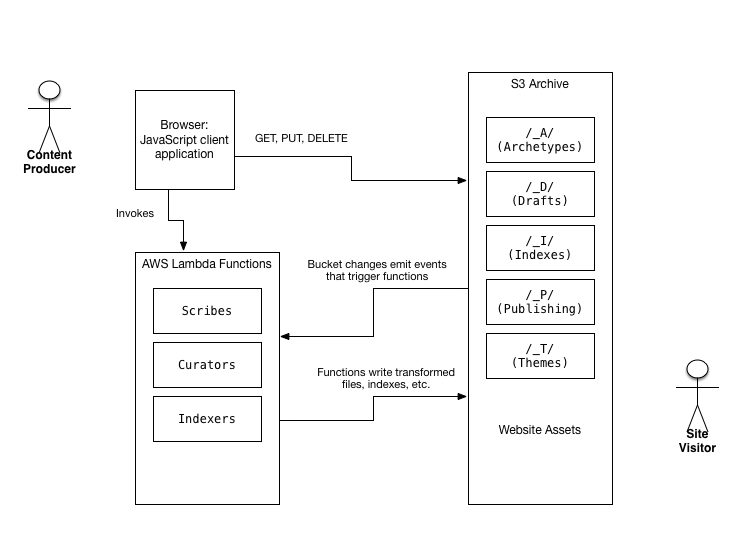
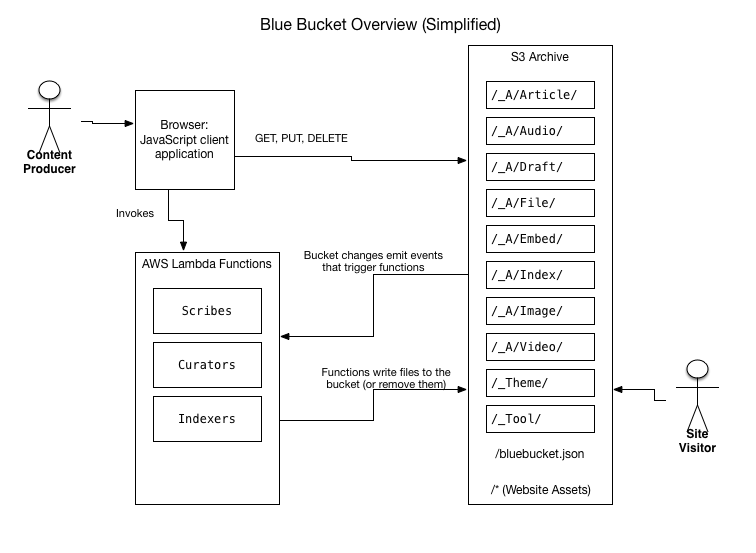
updated architecture/flows

diff --git a/content/architecture-process.md b/content/architecture-process.md
@@ -8,12 +8,11 @@ make the right choice.
 Here are some down-to-earth principles used in Blue Bucket's design:
 
 * Web standards are the instruction manual.
-* Cloud services are the magic sauce. Hardware and software are anti-patterns.
-  Minimize use of infrastructure and custom code.
+* Cloud services are the magic sauce. Dedicated hardware and custom software are
+  anti-patterns; minimize their use.
 * Small pieces, loosely joined, are better than big, complex tools. Each
   component of the system should have only one task, and should perform that
-  task very well.
-  Also known as the [Single Responsibility Principle][].
+  task very well. Also known as the [Single Responsibility Principle][].
 * The file system is the canonical repository. Every artifact of the site is
   stored in, or derived from, flat files. An end
   user should be able to reproduce the entire system given the repository.
@@ -45,76 +44,121 @@ S3 is the **archive**, the repository where all your materials are kept.
 Conveniently, S3 stores items in what it calls "buckets." We'll just paint ours
 blue!
 
-Files stored in our archive are either **sources** or **artifacts**. Sources get
-uploaded by external agents called **curators**. Artifacts get created by
-**scribes**, agents implemented as Lambda functions.
+Files stored in our archive are **assets**. Assets may be uploaded by external
+agents called **curators**. Assets uploaded by curators are called **sources**.
+Other assets may be created by our internal processes.  Internal processes that
+create assets are called **scribes**, and the assets they create are called
+**artifacts**.
 
 An **item** is a generic, abstract *thing* that we want to store in our archive.
-An item may have many different artifacts in the archive that represent it. For
+An item may have many different assets in the archive that represent it. For
 example, an item might be a picture. In the archive, that item might be
 represented as a PNG image file, *and* as a smaller thumbnail image, *and* as an
 HTML page that features that image in its body content, *and* as a JSON file
-storing metadata about the picture. All these artifacts represent the same item,
+storing metadata about the picture. All these assets represent the same item,
 the picture.
 
-An **archetype** is the canonical representation of an item in our archive. We
-will store them as JSON files. Each source item is transformed into one or more
-archetypes. All other artifacts are derived from the archetype.
-
-An **asset** is an artifact associated with an archetype. Typically, an
-archetype will store metadata about the content and a pointer to one or more
-assets. The asset will store the actual content of the item. Sometimes this will
-be identical to the source (e.g. if the source is a PDF file). Other time is
-will be different (e.g. the HTML fragment produced from a Markdown source).
-
-A **monograph** is a generated artifact derived from a single archetype, for
-example an article page.
-
-An **anthology** is a generated artifact derived from more than one archetype,
-for example an index page.
+An **archetype** is the canonical representation of an item in our archive.
+Archetypes are stored as JSON files in a dedicated subdirectory. An archetype
+contains metadata about the item, and pointers to all its assets. Archetypes are
+the key assets of the Blue Bucket system, and their manipulation drives many of
+the processes, as explained below.
 
 A **template** is a file used to perform transformation of an archetype into an
 artifact.
 
 [Single Responsibility Principle]: https://en.wikipedia.org/wiki/Single_responsibility_principle
 
-## The Archive, Artifacts, and Scribes
+## Overview of Typical Workflow
 
 At the center of the blue bucket architecture is the Archive, the S3 bucket (or
-directory) where the content is kept. The things we store in the Archive we
-shall call Artifacts. Artifacts come in several types, defining their role in
-the system. Here is a high-level overview of how the Archive is organized.
+directory) where the content is kept. All assets of your website are stored in
+the bucket. All assets needed by the system to maintain your website are stored
+in the bucket. Here is a high-level overview of how the Archive is organized and
+the concept of the system's operation.
 
 ![How the archive is organized](images/BlueBucketOverview.png)
 
-### Archetypes
+### Archetypes and Scribes
 
-The most important Artifact in the Blue Bucket system is the Archetype. The
+The most important asset in the Blue Bucket system is the Archetype. The
 Archetype is a JSON-formatted file representing each page, article, photo, or
 other content item on our web site. We use the JSON format because 1) we want to
 store structured data about our content as well as unstructured content itself,
-and 2) we want a format that will be usable by our client JavaScript
+and 2) we want a format that will be easily usable by our client JavaScript
 applications.
 
-Archetypes are kept in their own directory, and have a `.json` extension. This
-makes it easy to create S3 event sources that target only Archetypes. When an
-Archetype is saved or deleted, S3 sends the event to a Scribe, an AWS Lambda
-function. The Scribe will then generate website assets for the Archetype.
-Typically, it will do this by combining the Archetype with a Template to produce
-a *Monograph,* a web page, though different archetypes may produce other assets.
+Archetypes are kept in their own directory, organized by the *item class,* and
+have a `.json` extension. This makes it easy to create S3 event sources that
+target only Archetypes. 
 
-### Drafts
+There is a fixed set of supported item classes, as depicted in the diagram. They
+are:
+
+* Article: a text/html item intended to be displayed as a stand-alone web page.
+* Audio: an audio item.
+* File: a generic item that does not fall into any other class (e.g. a zip
+  file for download).
+* Embed: a text/html item that may be used as a component in a web page, but is
+  not intended to stand alone. This may be third party content, like a YouTube
+  video embed, or local content like an interactive data visualization.
+* Image: a picture or graphic.
+* Video: a video item stored locally (third party videos should be Embeds).
+
+When an Archetype is saved or deleted, S3 sends an event message to a Topic in
+the Simple Notification Service. Each item class has two topics that can be
+monitored, one for Save events, and one for Delete events.
+
+Software agents called Scribes (AWS Lambda functions) subscribe to these events
+and are notified when something in the archive changes. The Scribe will then
+generate artifacts to be presented on the website. For example, if the archetype
+was an Article, the Scribe might get the HTML content, render it using a
+template to produce a full web page, and store that web page back into the
+archive, ready for public view.
 
 For works in progress, we have a Drafts folder. Drafts are stored in the same
-format as Archetypes. Like Archetypes, there is a Scribe watching for change
-events in the Drafts folder, and it will generate Preview assets on changes so
+format as Archetypes. Like Archetypes, there are Scribes watching for change
+events in the Drafts folder, waiting to generate Preview assets on changes so
 that you can view your work as it will appear on the website proper.
 
-CAVEAT: In version 0.1, **the Drafts folder is publicly accessible.** Although
-Drafts are not advertised or exposed on the website proper, it would be trivial
-for an Internet visitor to get access to them, if they know their way around the
-Blue Bucket Archive, and nothing in the system prevents them from viewing them.
-Private drafts are on the roadmap for future development.
+### Curators
+
+A Curator is any agent that places content into (or removes content from) the
+Archive. This may include browser-based content publishing tools, internal feed
+import scripts, or external sources with permission to access our API.
+
+A prototypical workflow for internal curators would be:
+
+- Curator writes the source asset to the general archive, as a Draft (that is,
+  without granting public read permission).
+    - Note: Image, Audio, and Video assets are treated specially, because the
+      system may perform special processing on them. Therefore, they are grouped
+      in the main archive with a common prefix by asset-type.
+    - This is a direct PUT to the S3 bucket, no Lambda functions are directly invoked.
+    - If the upload fails, the curator can alert the user (if interactive) or
+      log an error.
+- Curator writes the archetype (metadata) for the item to the draft archetypes
+  directory for that item class, e.g. `/_A/Draft/Image/<filename>`.
+    - This is done by invoking λdoSave<ItemClass>().
+    - The doSave routines extract embedded metadata from the asset (its key must
+      be provided in the metadata), merge this with user-provided metadata, and
+      PUT the combined archetype to the bucket.
+    - If doSave fails, curator can alert the user (if interactive) or log an
+      error.
+- S3 sends a message to the SNS Topic BBonAddDraftImage.
+- User elects to publish.
+- Curator invokes λdoPublish().
+- doPublish grants public read on asset. Then moves the archetype from Draft to
+  Published location. If either operation fails, the user is alerted (if
+  interactive) or an error is logged.
+- S3 sends a message to the SNS Topic BBonAddImage and BBonDeleteDraftImage.
+
+Notice that the publishing tools are cleanly separated from the rest of the
+system. A Curator interacts with the Archive through simple APIs and JSON files.
+In the same way that a typical website management tool allows you to install
+plugins, Blue Bucket allows pluggable administration tools as well. The major
+work of the system is driven by events triggered after the curator's
+interactions.
 
 ### Indexes
 
@@ -127,16 +171,11 @@ However, just like web pages, indexes can be pre-generated at publish time and
 stored in the archive in a static file (in fact, that's how databases work
 internally). Blue Bucket does exactly that, storing our indexes as JSON files,
 and making them available to our JavaScript clients just like the rest of our
-data. Blue Bucket creates indexes over both Archetypes and Drafts.
+data.
 
-In deployments with a very high publishing velocity (periods of publishing
-more than one item per second) the index files may become a
-bottleneck, because more than one Lambda function may be trying to update them
-at once. In future versions, Blue Bucket may introduce the option to use
-DynamoDB or an SQL database to manage indexes and deal with write contention. In
-that case, the JSON index files would be rebuilt on a schedule, perhaps once a
-minute, resulting in some publishing latency. However, real life usage is likely
-not to hit these limits in the near term.
+Software agents called Indexers subscribe to the SNS add & delete topics for
+each item class. Whenever an archetype is written, the Indexer receives a
+message, and updates the appropriate index files in the bucket.
 
 In publishing operations with very large archives, these index files could grow
 quite large, which may result in performance problems for clients. Future
@@ -151,83 +190,16 @@ seconds, which is still well within the usable range for such a blog. However,
 clients needing access to the index might have difficulty grabbing such a large
 file, especially mobile clients.)
 
-In version 0.1, Scribes are pulling double duty as Indexers. In future versions,
-these roles may be separated into different agents.
+In deployments with a very high publishing velocity (periods of publishing
+more than one item per second) the index files may become a
+bottleneck, because more than one Lambda function may be trying to update them
+at once. In future versions, Blue Bucket may introduce the option to use
+DynamoDB or an SQL database to manage indexes and deal with write contention. In
+that case, the JSON index files would be rebuilt on a schedule, perhaps once a
+minute, resulting in some publishing latency. However, real life usage is likely
+not to hit these limits in the near term.
 
-### Curators
-
-A Curator is any agent that places content into (or removes content from) the
-Archive. This may include content publishing tools, or feed import scripts.
-Typically, a Curator will write content to the Drafts folder, and then request
-the Publisher to publish it for them (see under process architecture below).
-However, there may be cases where Curators write directly to the Archetypes
-folder or the main website. In future versions of Blue Bucket, we will examine
-these use cases and adjust as needed. Blue Bucket has a folder for storing
-Curators.
-
-Version 0.1 of Blue Bucket comes with a Curator: an embarrassingly basic
-browser-based publishing application. This version is meant more as a proof of
-concept and testing tool rather than a real interface for production use. Future
-versions will ship with additional Curators. 
-
-Notice, however, that the publishing tools are cleanly separated from the rest
-of the system. A Curator interacts with the Archive through simple APIs and JSON
-files. In the same way that a typical website management tool allows you to
-install themes that modify the look and feel of your website, Blue Bucket allows
-pluggable administration tools.
-
-Future versions of Blue Bucket will expose an HTTP publishing API (via AWS API
-Gateway), allowing external Curators to help manage Archive content as well.
-
-### Themes
-
-A Theme is a collection of assets used by Scribes or clients to format your
-website. A typical Theme will consist of HTML page templates, CSS files,
-JavaScript files, and image assets. As with most web publishing systems, Blue
-Bucket Themes are pluggable.
-
-Version 0.1 of Blue Bucket ships with a minimalist Theme that should be useful
-as proof of concept and testing, but probably is not useful for a real public
-website. Future versions of Blue Bucket will elaborate extensively on the Theme
-architecture to ensure Theme developers have a great experience building for the
-platform.
-
-Version 0.1 has several technical constraints that will be loosened in future
-versions. Chief among these is that it must use Jinja2 templates. I chose this
-template system only because it is one I am familiar with. However, Blue Bucket
-in future should support pluggable template systems, so that a Theme developer
-could build Templates in a language of their choice.
-
-
-## The Agent Model
-
-An important aspect of the Blue Bucket architecture is that it is an agent-based
-system. Each function of the system is an independent agent (a microservice, to
-use a buzzword), that communicates with other agents via simple protocols and
-messages. An interesting and intentional consequence of this is that agents can
-be implemented in any programming language supported by the underlying platform.
-This AWS implementation using Lambda functions can therefore have agents written
-in JavaScript, Java, or Python (at the time of this writing, more to come no
-doubt).
-
-As we expose more HTTP APIs in future versions, certain functions can be
-implemented external to the system, opening even more possibilities of
-development platform.
-
-The architecture should also be portable to different platforms. I have chosen
-to build on AWS because it is the most mature provider of utility computing
-service. However, the architecture should work just as well on Google Cloud
-Platform or Azure or any other platform that provides the building blocks. With
-a little effort, you could adapt it to work on a personal Linux server using a
-standard file system and inotify.
-
-In version 0.1 the code is not pluggable enough to swap out platforms easily.
-However, I have made an effort to isolate platform-dependent functions to make
-future porting easier. Key issues are the input-output functions for managing
-the Archive, which have mostly been isolated to the archivist class, and the
-details of interpreting event messages, which still needs to be abstracted.
-
-## Workflows
+## Example Workflows
 
 Some important facts/constraints to understand:
 
@@ -247,7 +219,7 @@ Some important facts/constraints to understand:
 
 ### Installing Blue Bucket in a new AWS account
 
-![Sequnce Diagram: Install Blue Bucket in a new AWS account](images/InstallNewAccount.png)
+![Sequence Diagram: Install Blue Bucket in a new AWS account](images/InstallNewAccount.png)
 
 The bucket initializer can run on any domain anywhere. I’ll host one publicly.
 
